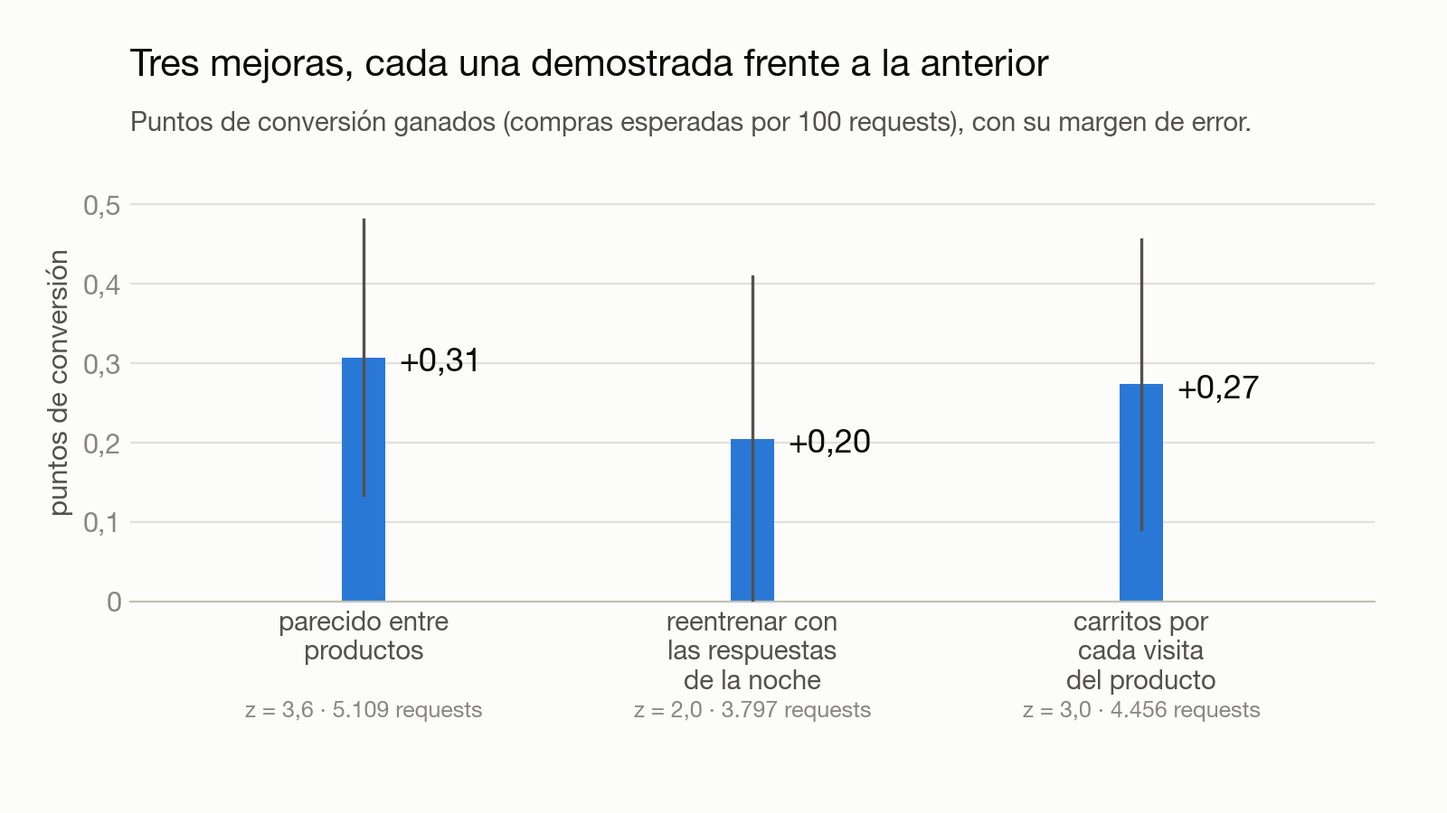
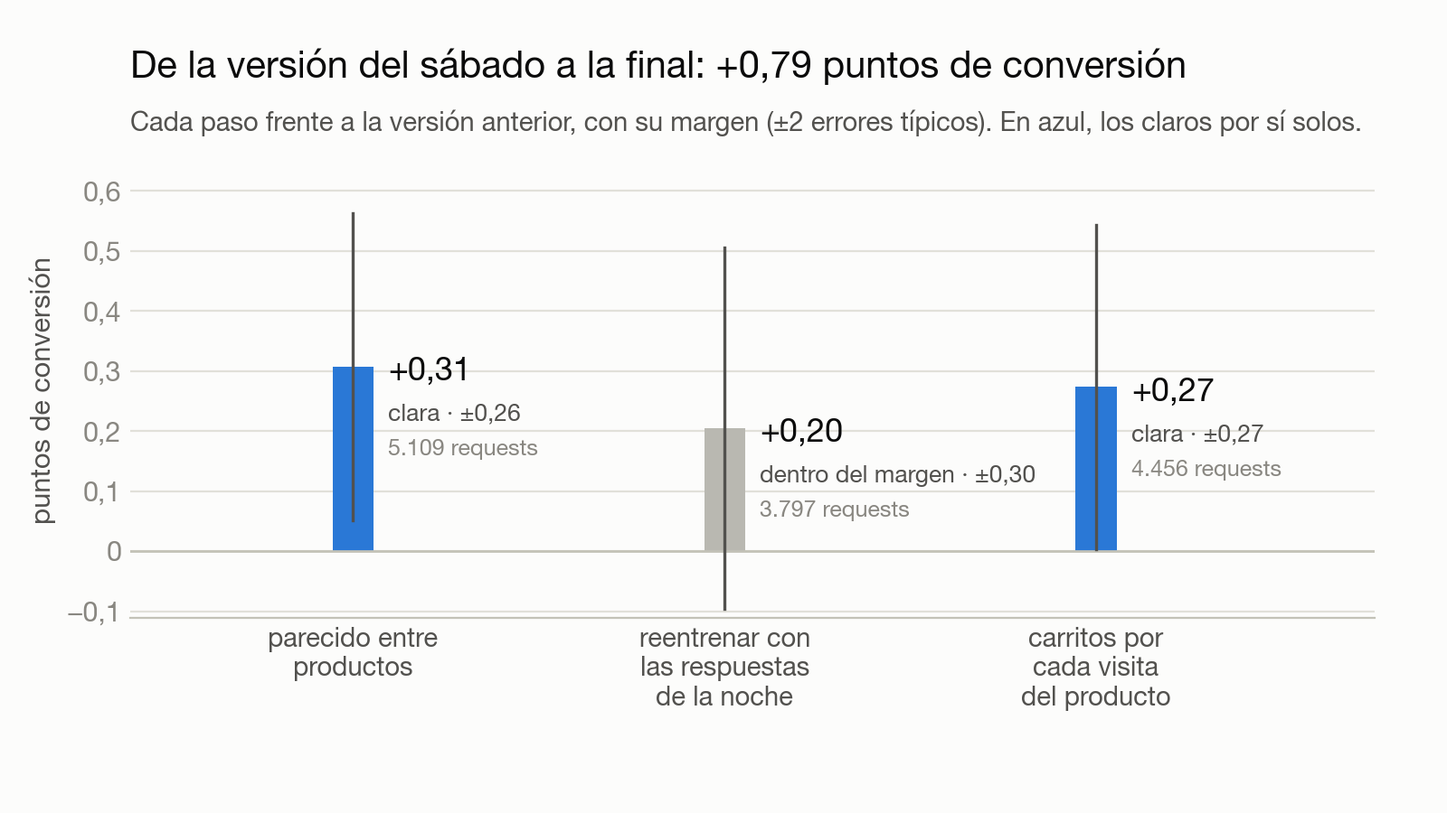
Presentación: márgenes de error corregidos y figura del historial de cada comprador
- Las figuras usan el ruido medido (5,9 puntos por request): la cadena v8 → v24 suma +0,79 ± 0,48 puntos, con dos
  pasos claros por sí solos (azul) y uno dentro del margen (gris). La curva de productos nuevos pasa a decir lo que
  dicen los datos: ningún nivel gana con claridad al elegido.
- Figura nueva 6_historial.png: tasa de compra según lo que el comprador hizo con el producto en los carruseles
  antiguos (lo compró: 2,56 % frente a 0,20 % si nunca se lo enseñaron).
- Guion: diapositiva 5 cuenta cómo medimos el ruido y nos corregimos; la 8, qué haríamos con más tiempo (columna
  propensity para evaluar sin gastar tráfico, modelo en dos pasos). El texto se adapta a la versión final elegida.

diff --git a/presentacion/presentacion.html b/presentacion/presentacion.html
@@ -10,12 +10,12 @@
 @media (max-width:820px){.slide{aspect-ratio:auto;padding:24px 16px;margin:12px}.body{flex-direction:column}.body img{max-width:100%}h1{font-size:25px}.body ul{font-size:17px}}
 @media print{body{background:#fff}.slide{border:0;margin:0;max-width:none;min-height:96vh}.say{display:none}}
 </style></head><body>
-<section class='slide'><div class='n'>1 / 8</div><h1>team_23 · Un recomendador que aprende mientras atiende</h1><div class='body'><ul><li>Capturamos el 49 % de la mejora máxima posible (0 = los más vendidos, 100 = la lista perfecta).</li><li>Respondemos en 1 segundo de mediana, con el límite en 3.</li><li>Tres mejoras seguidas demostradas en vivo durante la noche: +0,79 puntos de conversión en total.</li></ul></div><div class='say'><b>Qué decir:</b> Somos cuatro y empezamos de cero el sábado por la mañana. Nuestra idea ha sido sencilla: un modelo que se pueda explicar, y que cada cambio se gane su sitio con datos en vivo.</div></section>
+<section class='slide'><div class='n'>1 / 8</div><h1>team_23 · Un recomendador que aprende mientras atiende</h1><div class='body'><ul><li>Capturamos el 49 % de la mejora máxima posible (0 = los más vendidos, 100 = la lista perfecta).</li><li>Respondemos en 1 segundo de mediana, con el límite en 3.</li><li>De la versión del sábado a la final: +0,79 puntos de conversión (±0,48), medidos en vivo.</li></ul></div><div class='say'><b>Qué decir:</b> Somos cuatro y empezamos de cero el sábado por la mañana. Nuestra idea ha sido sencilla: un modelo que se pueda explicar, y que cada cambio se gane su sitio con datos en vivo y con su margen de error.</div></section>
 <section class='slide'><div class='n'>2 / 8</div><h1>Cómo funciona: una request, 10 productos, 1 milisegundo de cálculo</h1><div class='body fig'><ul><li>Memoria de cada comprador: visto, carrito y comprado (60 días + hoy).</li><li>En cada request se puntúan los ~5.400 productos: señales × pesos.</li><li>Lectura, cálculo y envío en hilos separados: de 1,4 a 1,0 s de mediana.</li><li>Cada despliegue pasa una prueba con requests reales y tiene vuelta atrás.</li></ul><img src='5_latencia.png' alt='Cómo funciona: una request, 10 productos, 1 milisegundo de cálculo'></div><div class='say'><b>Qué decir:</b> La fiabilidad va primero: si no respondes a tiempo, da igual lo bueno que sea el modelo. Lo ya comprado y lo agotado se quitan de la lista. Tuvimos tres paradas el sábado por desplegar a mano; de ahí salió el despliegue con comprobación previa y vuelta atrás con un comando.</div></section>
-<section class='slide'><div class='n'>3 / 8</div><h1>El modelo, en cuatro ideas que se pueden leer</h1><div class='body'><ul><li>Lo que el comprador ya hizo: lo que tiene en el carrito sube; lo que ya compró, fuera (en vivo no se recompra).</li><li>Lo que acaba de ver en esta sesión.</li><li>Parecido entre productos: "quien metió X en el carrito o lo compró, también Y".</li><li>Lo bueno que es el producto: carritos por cada visita, no ventas totales.</li><li>Pesos distintos para compradores nuevos y conocidos: a los nuevos les mueve lo que convence a todos; a los conocidos, su carrito y su historial.</li></ul></div><div class='say'><b>Qué decir:</b> Es una suma de señales con pesos. Lo elegimos así a propósito: se entrena en segundos, responde en un milisegundo y cuando algo va mal podemos mirar qué peso lo causa.</div></section>
-<section class='slide'><div class='n'>4 / 8</div><h1>Aprender del stream: reentrenar con nuestras propias respuestas</h1><div class='body fig'><ul><li>Cada pocas horas se reajustan los pesos con lo que de verdad se compró.</li><li>Cada versión nueva entra con parte del tráfico y compite con la campeona.</li><li>Tres pasos seguidos: +0,31, +0,20 y +0,27 puntos de conversión.</li></ul><img src='2_mejoras.png' alt='Aprender del stream: reentrenar con nuestras propias respuestas'></div><div class='say'><b>Qué decir:</b> El histórico no se comporta igual que el vivo, así que sus pesos solo son el punto de partida. Para reentrenar reproducimos el día en orden, cada request con lo que se sabía en ese momento, para no hacer trampa. Lo que más nos ha dado es aprender de las listas que nosotros mismos enseñamos.</div></section>
-<section class='slide'><div class='n'>5 / 8</div><h1>Decidir con datos: lo que parecía buena idea y no lo era</h1><div class='body fig'><ul><li>Dos versiones idénticas pueden diferir 0,3 puntos con 600 requests.</li><li>Regla: no decidir con menos de 3.000 requests ni de 2 errores típicos.</li><li>Productos nuevos: ni sin empujón ni con más. Cinco niveles a la vez.</li><li>Más de 25 versiones en un día; cada retirada, con su número.</li></ul><img src='3_productos_nuevos.png' alt='Decidir con datos: lo que parecía buena idea y no lo era'></div><div class='say'><b>Qué decir:</b> Nos equivocamos varias veces, y lo interesante es cómo lo supimos: por la conversión esperada del leaderboard por versión, que tiene mucho menos ruido que contar compras. Perdieron en vivo ideas que ganaban en pruebas con datos guardados: poner todos los carritos primero, empujar las rebajas, un modelo de árboles. Llegamos a quitar el empujón a los productos nuevos por un análisis con pocas compras; la prueba en vivo dijo lo contrario en media hora.</div></section>
-<section class='slide'><div class='n'>6 / 8</div><h1>Lo que aprendimos de esta tienda</h1><div class='body fig'><ul><li>Los 50 productos más comprados se llevan el 64 % de las compras del carrusel; los 200, el 93 %.</li><li>No son los que más se venden, sino los que más convencen: carritos por visita.</li><li>Con compradores conocidos, 7 de cada 10 compras ya estaban en su carrito.</li></ul><img src='4_estrellas.png' alt='Lo que aprendimos de esta tienda'></div><div class='say'><b>Qué decir:</b> Esto cambió el modelo: dejamos de medir popularidad por volumen y pasamos a medirla por lo que convence un producto. Fue la última gran mejora de la noche. También comprobamos lo que no hay: ni modas por horas ni efecto de las rebajas en el carrusel.</div></section>
-<section class='slide'><div class='n'>7 / 8</div><h1>Cómo usamos RawTree</h1><div class='body'><ul><li>Requests: dos lectores en paralelo cada 0,2 s; respuestas por lotes en hilos aparte.</li><li>Estado en SQL, sin ETL: stock cada 2 s; catálogo, popularidad y tasas por producto cada minuto (una fila por producto).</li><li>Memoria de compradores y tabla de parecidos entre productos con agregaciones y un self-join sobre 12 millones de eventos.</li><li>Entrenamiento: feedback unido a requests y a eventos, reproducido en orden temporal.</li><li>Medida: la conversión esperada por versión del leaderboard, por tramos entre despliegues.</li></ul></div><div class='say'><b>Qué decir:</b> Todo el cálculo pesado lo hace RawTree con SQL; en el portátil solo queda multiplicar señales por pesos. Aprendimos a no lanzar descargas grandes mientras producción corre.</div></section>
-<section class='slide'><div class='n'>8 / 8</div><h1>Resultado, y lo que haríamos distinto</h1><div class='body fig'><ul><li>De 38 % de la mejora posible a las 18:00 a 49 % de madrugada.</li><li>Lo que salió mal: paradas por desplegar a mano y cortes de red. De ahí salieron el despliegue con vuelta atrás y la alarma de conexión.</li><li>Con más tiempo: compradores conocidos, y precio según dispositivo y región.</li><li>Versión final: v24-rate.</li></ul><img src='1_progreso.png' alt='Resultado, y lo que haríamos distinto'></div><div class='say'><b>Qué decir:</b> Cada décima que tenemos está medida frente a la versión anterior y sabemos de dónde viene. Eso es lo que nos llevamos.</div></section>
+<section class='slide'><div class='n'>3 / 8</div><h1>El modelo, en ideas que se pueden leer</h1><div class='body'><ul><li>Lo que el comprador ya hizo: su carrito sube; lo que ya compró, fuera (en vivo no se recompra).</li><li>Lo que acaba de ver en esta sesión.</li><li>Parecido entre productos: "quien metió X en el carrito o lo compró, también Y".</li><li>Lo bueno que es el producto: carritos por cada visita, no ventas totales.</li><li>Pesos distintos para compradores nuevos y conocidos.</li></ul></div><div class='say'><b>Qué decir:</b> Es una suma de señales con pesos. Lo elegimos así a propósito: se entrena en segundos, responde en un milisegundo y cuando algo va mal podemos mirar qué peso lo causa. A los compradores nuevos les mueve lo que convence a todos; a los conocidos, su carrito y su historial.</div></section>
+<section class='slide'><div class='n'>4 / 8</div><h1>Aprender del stream: reentrenar con nuestras propias respuestas</h1><div class='body fig'><ul><li>Cada minuto: eventos nuevos a la memoria de cada comprador, tasas de cada producto y productos nuevos.</li><li>Cada pocas horas: los pesos se reajustan con lo que de verdad se compró en nuestras listas.</li><li>Cada versión nueva entra con parte del tráfico y compite con la campeona.</li><li>Tres pasos, +0,79 puntos en total (±0,48). Dos son claros por sí solos; el otro queda dentro del margen.</li></ul><img src='2_mejoras.png' alt='Aprender del stream: reentrenar con nuestras propias respuestas'></div><div class='say'><b>Qué decir:</b> El histórico no se comporta igual que el vivo, así que sus pesos solo son el punto de partida. Para reentrenar reproducimos el día en orden, cada request con lo que se sabía en ese momento, para no hacer trampa. Lo que más nos ha dado es aprender de las listas que nosotros mismos enseñamos.</div></section>
+<section class='slide'><div class='n'>5 / 8</div><h1>Decidir con datos: antes de medir, medir la regla</h1><div class='body fig'><ul><li>Comparamos versiones con la conversión esperada del leaderboard: mucho menos ruido que contar compras.</li><li>Medimos ese ruido: 5,9 puntos por request. Dos versiones idénticas difieren 0,3 puntos con 600 requests.</li><li>Regla: promocionar solo con 2 errores típicos y 3.000 requests.</li><li>Nos corregimos: empezamos suponiendo un ruido de 4 y varias "victorias" no lo eran.</li></ul><img src='3_productos_nuevos.png' alt='Decidir con datos: antes de medir, medir la regla'></div><div class='say'><b>Qué decir:</b> A las cinco de la mañana medimos bien el ruido, con 210 comparaciones entre versiones que corrieron a la vez, y salió un 50 % mayor del que usábamos. Releímos la noche entera: las mejoras grandes siguen en pie y otras decisiones, como cuántos productos nuevos enseñar, quedaron en "no se puede saber con estos datos". Preferimos contarlo así. También perdieron en vivo ideas que ganaban con datos guardados: poner todos los carritos primero, empujar las rebajas, un modelo de árboles.</div></section>
+<section class='slide'><div class='n'>6 / 8</div><h1>Lo que aprendimos de esta tienda</h1><div class='body fig'><ul><li>Los 50 productos más comprados se llevan el 65 % de las compras del carrusel; los 200, el 93 %.</li><li>No son los que más se venden, sino los que más convencen: carritos por visita.</li><li>Con compradores conocidos, 7 de cada 10 compras ya estaban en su carrito.</li><li>Toda compra pasa por un clic, y lo comprado en el carrusel no se vuelve a comprar.</li></ul><img src='4_estrellas.png' alt='Lo que aprendimos de esta tienda'></div><div class='say'><b>Qué decir:</b> Esto cambió el modelo: dejamos de medir popularidad por volumen y pasamos a medirla por lo que convence un producto. También comprobamos lo que no hay: ni modas por horas, ni efecto de las rebajas, ni un nivel de precio propio de cada comprador.</div></section>
+<section class='slide'><div class='n'>7 / 8</div><h1>Cómo usamos RawTree</h1><div class='body'><ul><li>Requests: dos lectores en paralelo cada 0,2 s; respuestas por lotes en hilos aparte.</li><li>Estado en SQL, sin ETL: stock cada 2 s; catálogo, popularidad y tasas por producto cada minuto.</li><li>Memoria de compradores y parecido entre productos: agregaciones y un self-join sobre 12 millones de eventos.</li><li>Historial de los 2 millones de carruseles antiguos: 10 millones de parejas comprador-producto agregadas en SQL.</li><li>Entrenar y medir: feedback unido a requests y eventos en orden temporal; conversión esperada por versión.</li></ul></div><div class='say'><b>Qué decir:</b> Todo el cálculo pesado lo hace RawTree con SQL; en el portátil solo queda multiplicar señales por pesos. Aprendimos a no lanzar descargas grandes mientras producción corre: las bajamos en trozos pequeños, de uno en uno.</div></section>
+<section class='slide'><div class='n'>8 / 8</div><h1>Resultado, y lo que haríamos distinto</h1><div class='body fig'><ul><li>De 38 % de la mejora posible a las 18:00 a 49 % de madrugada.</li><li>Lo que salió mal: paradas por desplegar a mano y cortes de red. De ahí, el despliegue con vuelta atrás y la alarma de conexión.</li><li>Con más tiempo: evaluar versiones sin gastar tráfico con la columna propensity del histórico, y un modelo en dos pasos (clic y compra).</li><li>Versión final: v24-rate.</li></ul><img src='1_progreso.png' alt='Resultado, y lo que haríamos distinto'></div><div class='say'><b>Qué decir:</b> Cada décima que tenemos está medida frente a la versión anterior, con su margen, y sabemos de dónde viene. Los equipos de cabeza nos sacan ventaja sobre todo con compradores conocidos; ahí es donde seguiríamos buscando.</div></section>
 </body></html>

diff --git a/presentacion/make_guion.py b/presentacion/make_guion.py
@@ -17,14 +17,26 @@ g = d["mejoras"]
 prog = d["progreso"]["nosotros"]
 best_hour = max(prog[:-1])
 lat = d["latencia_s"]
-total_gain = sum(x["ganancia"] for x in g)
+tot = d.get("mejora_total", {"ganancia": sum(x["ganancia"] for x in g), "error": 0.0})
+total_gain = tot["ganancia"]
+n_clear = sum(bool(x.get("clara")) for x in g)
+ruido = d.get("ruido", {"total": 5.9})
+hist = {x["grupo"]: x["tasa_pct"] for x in d.get("historial", [])}
+h_buy, h_never = hist.get("lo compró desde un carrusel antiguo"), hist.get("nunca se lo habían enseñado")
+uses_history = champ.startswith("v33")
+NUM = {1: "uno", 2: "dos", 3: "tres", 4: "cuatro", 5: "cinco"}
+steps_txt = (f"{NUM.get(len(g), len(g)).capitalize()} pasos, +{es(total_gain)} puntos en total (±{es(2 * tot['error'])}). "
+             + (f"{NUM.get(n_clear, n_clear).capitalize()} son claros por sí solos; " + ("el otro queda" if len(g) - n_clear == 1 else "los otros quedan") + " dentro del margen."
+                if n_clear < len(g) else "Todos claros por sí solos."))
+history_bullet = (f"Lo que cada comprador hizo en el sistema antiguo: si compró un producto desde un carrusel, lo compra {es(h_buy / h_never, 0)} veces más que uno que nunca vio."
+                  if h_buy and h_never else "Lo que cada comprador hizo en los carruseles del sistema antiguo.")
 
 slides = [
  {"title": "team_23 · Un recomendador que aprende mientras atiende",
   "bullets": [f"Capturamos el {es(best_hour, 0)} % de la mejora máxima posible (0 = los más vendidos, 100 = la lista perfecta).",
               "Respondemos en 1 segundo de mediana, con el límite en 3.",
-              f"Tres mejoras seguidas demostradas en vivo durante la noche: +{es(total_gain)} puntos de conversión en total."],
-  "say": "Somos cuatro y empezamos de cero el sábado por la mañana. Nuestra idea ha sido sencilla: un modelo que se pueda explicar, y que cada cambio se gane su sitio con datos en vivo."},
+              f"De la versión del sábado a la final: +{es(total_gain)} puntos de conversión (±{es(2 * tot['error'])}), medidos en vivo."],
+  "say": "Somos cuatro y empezamos de cero el sábado por la mañana. Nuestra idea ha sido sencilla: un modelo que se pueda explicar, y que cada cambio se gane su sitio con datos en vivo y con su margen de error."},
  {"title": "Cómo funciona: una request, 10 productos, 1 milisegundo de cálculo",
   "figure": "5_latencia.png",
   "bullets": ["Memoria de cada comprador: visto, carrito y comprado (60 días + hoy).",
@@ -32,46 +44,51 @@ slides = [
               f"Lectura, cálculo y envío en hilos separados: de {es(lat['antes']['p50'], 1)} a {es(lat['despues']['p50'], 1)} s de mediana.",
               "Cada despliegue pasa una prueba con requests reales y tiene vuelta atrás."],
   "say": "La fiabilidad va primero: si no respondes a tiempo, da igual lo bueno que sea el modelo. Lo ya comprado y lo agotado se quitan de la lista. Tuvimos tres paradas el sábado por desplegar a mano; de ahí salió el despliegue con comprobación previa y vuelta atrás con un comando."},
- {"title": "El modelo, en cuatro ideas que se pueden leer",
-  "bullets": ["Lo que el comprador ya hizo: lo que tiene en el carrito sube; lo que ya compró, fuera (en vivo no se recompra).",
+ {"title": "El modelo, en ideas que se pueden leer",
+  **({"figure": "6_historial.png"} if uses_history and (OUT / "6_historial.png").exists() else {}),
+  "bullets": ["Lo que el comprador ya hizo: su carrito sube; lo que ya compró, fuera (en vivo no se recompra).",
               "Lo que acaba de ver en esta sesión.",
               "Parecido entre productos: \"quien metió X en el carrito o lo compró, también Y\".",
-              "Lo bueno que es el producto: carritos por cada visita, no ventas totales.",
-              "Pesos distintos para compradores nuevos y conocidos: a los nuevos les mueve lo que convence a todos; a los conocidos, su carrito y su historial."],
-  "say": "Es una suma de señales con pesos. Lo elegimos así a propósito: se entrena en segundos, responde en un milisegundo y cuando algo va mal podemos mirar qué peso lo causa."},
+              "Lo bueno que es el producto: carritos por cada visita, no ventas totales."]
+             + ([history_bullet] if uses_history else [])
+             + ["Pesos distintos para compradores nuevos y conocidos."],
+  "say": "Es una suma de señales con pesos. Lo elegimos así a propósito: se entrena en segundos, responde en un milisegundo y cuando algo va mal podemos mirar qué peso lo causa. A los compradores nuevos les mueve lo que convence a todos; a los conocidos, su carrito y su historial."
+         + (" La última señal salió de una tabla que casi nadie mira: los carruseles del sistema antiguo guardan qué enseñó, qué se clicó y qué se compró, comprador a comprador." if uses_history else "")},
  {"title": "Aprender del stream: reentrenar con nuestras propias respuestas",
   "figure": "2_mejoras.png",
-  "bullets": ["Cada pocas horas se reajustan los pesos con lo que de verdad se compró.",
+  "bullets": ["Cada minuto: eventos nuevos a la memoria de cada comprador, tasas de cada producto y productos nuevos.",
+              "Cada pocas horas: los pesos se reajustan con lo que de verdad se compró en nuestras listas.",
               "Cada versión nueva entra con parte del tráfico y compite con la campeona.",
-              f"Tres pasos seguidos: +{es(g[0]['ganancia'])}, +{es(g[1]['ganancia'])} y +{es(g[2]['ganancia'])} puntos de conversión."],
+              steps_txt],
   "say": "El histórico no se comporta igual que el vivo, así que sus pesos solo son el punto de partida. Para reentrenar reproducimos el día en orden, cada request con lo que se sabía en ese momento, para no hacer trampa. Lo que más nos ha dado es aprender de las listas que nosotros mismos enseñamos."},
- {"title": "Decidir con datos: lo que parecía buena idea y no lo era",
+ {"title": "Decidir con datos: antes de medir, medir la regla",
   "figure": "3_productos_nuevos.png",
-  "bullets": ["Dos versiones idénticas pueden diferir 0,3 puntos con 600 requests.",
-              "Regla: no decidir con menos de 3.000 requests ni de 2 errores típicos.",
-              "Productos nuevos: ni sin empujón ni con más. Cinco niveles a la vez.",
-              "Más de 25 versiones en un día; cada retirada, con su número."],
-  "say": "Nos equivocamos varias veces, y lo interesante es cómo lo supimos: por la conversión esperada del leaderboard por versión, que tiene mucho menos ruido que contar compras. Perdieron en vivo ideas que ganaban en pruebas con datos guardados: poner todos los carritos primero, empujar las rebajas, un modelo de árboles. Llegamos a quitar el empujón a los productos nuevos por un análisis con pocas compras; la prueba en vivo dijo lo contrario en media hora."},
+  "bullets": ["Comparamos versiones con la conversión esperada del leaderboard: mucho menos ruido que contar compras.",
+              f"Medimos ese ruido: {es(ruido['total'], 1)} puntos por request. Dos versiones idénticas difieren 0,3 puntos con 600 requests.",
+              "Regla: promocionar solo con 2 errores típicos y 3.000 requests.",
+              "Nos corregimos: empezamos suponiendo un ruido de 4 y varias \"victorias\" no lo eran."],
+  "say": "A las cinco de la mañana medimos bien el ruido, con 210 comparaciones entre versiones que corrieron a la vez, y salió un 50 % mayor del que usábamos. Releímos la noche entera: las mejoras grandes siguen en pie y otras decisiones, como cuántos productos nuevos enseñar, quedaron en \"no se puede saber con estos datos\". Preferimos contarlo así. También perdieron en vivo ideas que ganaban con datos guardados: poner todos los carritos primero, empujar las rebajas, un modelo de árboles."},
  {"title": "Lo que aprendimos de esta tienda",
   "figure": "4_estrellas.png",
   "bullets": [f"Los 50 productos más comprados se llevan el {es(d['estrellas']['top50'], 0)} % de las compras del carrusel; los 200, el {es(d['estrellas']['top200'], 0)} %.",
               "No son los que más se venden, sino los que más convencen: carritos por visita.",
-              "Con compradores conocidos, 7 de cada 10 compras ya estaban en su carrito."],
-  "say": "Esto cambió el modelo: dejamos de medir popularidad por volumen y pasamos a medirla por lo que convence un producto. Fue la última gran mejora de la noche. También comprobamos lo que no hay: ni modas por horas ni efecto de las rebajas en el carrusel."},
+              "Con compradores conocidos, 7 de cada 10 compras ya estaban en su carrito.",
+              "Toda compra pasa por un clic, y lo comprado en el carrusel no se vuelve a comprar."],
+  "say": "Esto cambió el modelo: dejamos de medir popularidad por volumen y pasamos a medirla por lo que convence un producto. También comprobamos lo que no hay: ni modas por horas, ni efecto de las rebajas, ni un nivel de precio propio de cada comprador."},
  {"title": "Cómo usamos RawTree",
   "bullets": ["Requests: dos lectores en paralelo cada 0,2 s; respuestas por lotes en hilos aparte.",
-              "Estado en SQL, sin ETL: stock cada 2 s; catálogo, popularidad y tasas por producto cada minuto (una fila por producto).",
-              "Memoria de compradores y tabla de parecidos entre productos con agregaciones y un self-join sobre 12 millones de eventos.",
-              "Entrenamiento: feedback unido a requests y a eventos, reproducido en orden temporal.",
-              "Medida: la conversión esperada por versión del leaderboard, por tramos entre despliegues."],
-  "say": "Todo el cálculo pesado lo hace RawTree con SQL; en el portátil solo queda multiplicar señales por pesos. Aprendimos a no lanzar descargas grandes mientras producción corre."},
+              "Estado en SQL, sin ETL: stock cada 2 s; catálogo, popularidad y tasas por producto cada minuto.",
+              "Memoria de compradores y parecido entre productos: agregaciones y un self-join sobre 12 millones de eventos.",
+              "Historial de los 2 millones de carruseles antiguos: 10 millones de parejas comprador-producto agregadas en SQL.",
+              "Entrenar y medir: feedback unido a requests y eventos en orden temporal; conversión esperada por versión."],
+  "say": "Todo el cálculo pesado lo hace RawTree con SQL; en el portátil solo queda multiplicar señales por pesos. Aprendimos a no lanzar descargas grandes mientras producción corre: las bajamos en trozos pequeños, de uno en uno."},
  {"title": "Resultado, y lo que haríamos distinto",
   "figure": "1_progreso.png",
   "bullets": [f"De {es(prog[7], 0)} % de la mejora posible a las 18:00 a {es(best_hour, 0)} % de madrugada.",
-              "Lo que salió mal: paradas por desplegar a mano y cortes de red. De ahí salieron el despliegue con vuelta atrás y la alarma de conexión.",
-              "Con más tiempo: compradores conocidos, y precio según dispositivo y región.",
+              "Lo que salió mal: paradas por desplegar a mano y cortes de red. De ahí, el despliegue con vuelta atrás y la alarma de conexión.",
+              "Con más tiempo: evaluar versiones sin gastar tráfico con la columna propensity del histórico, y un modelo en dos pasos (clic y compra).",
               f"Versión final: {champ}."],
-  "say": "Cada décima que tenemos está medida frente a la versión anterior y sabemos de dónde viene. Eso es lo que nos llevamos."},
+  "say": "Cada décima que tenemos está medida frente a la versión anterior, con su margen, y sabemos de dónde viene. Los equipos de cabeza nos sacan ventaja sobre todo con compradores conocidos; ahí es donde seguiríamos buscando."},
 ]
 
 md = ["# Guion de la presentación al jurado (team_23)", "",

diff --git a/presentacion/make_figures.py b/presentacion/make_figures.py
@@ -85,28 +85,38 @@ datos["progreso"] = {"horas": [h.strftime("%H:%M") for h in hours], "nosotros": 
 # ------------------------------------------------------------------ 2. cadena de mejoras
 steps = [("v8-new-products", "v14-cf-split", "parecido entre\nproductos"), ("v14-cf-split", "v23-pop-log", "reentrenar con\nlas respuestas\nde la noche"),
          ("v23-pop-log", "v24-rate", "carritos por\ncada visita\ndel producto")]
+if state["champion"].startswith("v33"):      # el último paso solo se enseña si es la versión con la que se juega la final
+    steps.append(("v24-rate", "v33-user-history", "historial de cada\ncomprador en el\nsistema antiguo"))
 vals = [pair(b, a) for a, b, _ in steps]
-f, ax = fig("Tres mejoras, cada una demostrada frente a la anterior",
-            "Puntos de conversión ganados (compras esperadas por 100 requests), con su margen de error.")
+total, total_se = sum(v[0] for v in vals), sum(v[1] ** 2 for v in vals) ** 0.5
+clear = [v[0] - 2 * v[1] > 0 for v in vals]
+f, ax = fig(f"De la versión del sábado a la final: +{es(total)} puntos de conversión",
+            "Cada paso frente a la versión anterior, con su margen (±2 errores típicos). En azul, los claros por sí solos.")
 xs = np.arange(len(steps))
-ax.bar(xs, [v[0] for v in vals], width=0.11, color=BLUE, zorder=2)
+ax.bar(xs, [v[0] for v in vals], width=0.11, color=[BLUE if c else GRAY for c in clear], zorder=2)
 ax.yaxis.set_major_formatter(COMMA)
 for i, (dv, se, n) in enumerate(vals):
     ax.plot([i, i], [dv - 2 * se, dv + 2 * se], color=INK2, lw=1.2, zorder=3)
-    ax.annotate(f"+{es(dv)}", (i, dv), xytext=(14, -2), textcoords="offset points", fontsize=13, fontweight="bold", color=INK, va="center")
-    ax.annotate(f"z = {es(dv / se, 1)} · " + f"{n:,}".replace(",", ".") + " requests", (i, 0), xytext=(0, -46), textcoords="offset points", fontsize=9, color=MUTED, ha="center")
+    ax.annotate(f"+{es(dv)}" if dv >= 0 else es(dv).replace("-", "−"), (i, dv), xytext=(14, -2), textcoords="offset points", fontsize=13, fontweight="bold", color=INK, va="center")
+    ax.annotate(("clara" if clear[i] else "dentro del margen") + f" · ±{es(2 * se)}", (i, dv), xytext=(14, -19), textcoords="offset points", fontsize=9.5, color=INK2, va="center")
+    ax.annotate(f"{n:,}".replace(",", ".") + " requests", (i, dv), xytext=(14, -33), textcoords="offset points", fontsize=9, color=MUTED, va="center")
 ax.axhline(0, color=AXIS, lw=1)
 ax.set_xticks(xs); ax.set_xticklabels([s[2] for s in steps], fontsize=10.5, color=INK2)
-ax.set_xlim(-0.6, len(steps) - 0.4); ax.set_ylim(0, max(v[0] + 2 * v[1] for v in vals) * 1.15); ax.set_ylabel("puntos de conversión")
-f.subplots_adjust(bottom=0.26)
+lo = min(0.0, min(v[0] - 2 * v[1] for v in vals))
+ax.set_xlim(-0.6, len(steps) - 0.4); ax.set_ylim(lo * 1.15, max(v[0] + 2 * v[1] for v in vals) * 1.15); ax.set_ylabel("puntos de conversión")
+ax.set_xlim(-0.6, len(steps) - 0.25)
+f.subplots_adjust(bottom=0.24)
 f.savefig(OUT / "2_mejoras.png"); plt.close(f)
-datos["mejoras"] = [{"de": a, "a": b, "ganancia": round(v[0], 3), "error": round(v[1], 3), "requests": v[2]} for (a, b, _), v in zip(steps, vals)]
+datos["mejoras"] = [{"de": a, "a": b, "ganancia": round(v[0], 3), "error": round(v[1], 3), "requests": v[2], "clara": bool(c)} for (a, b, _), v, c in zip(steps, vals, clear)]
+datos["mejora_total"] = {"ganancia": round(total, 3), "error": round(total_se, 3), "z": round(total / total_se, 1)}
+datos["ruido"] = {"total": monitor.NOISE_SD, "conocidos": monitor.NOISE_KNOWN, "cold": monitor.NOISE_COLD}
 
 # ------------------------------------------------------------------ 3. curva de productos nuevos
 curve = [("v25-rate-nonew", 0.6), ("v24-rate", 6.5), ("v26-rate-new2x", 13), ("v27-rate-new3x", 21), ("v28-rate-learned", 32)]
 cv = [(0.0, 0.0, 0) if v == "v24-rate" else pair(v, "v24-rate") for v, _ in curve]
-f, ax = fig("¿Cuántos productos nuevos enseñar? Lo decidió una prueba, no la intuición",
-            "Mismo modelo, cinco niveles de empuje a los productos nuevos. Diferencia frente al nivel elegido.")
+worse = [n for (n, _), v in zip(curve, cv) if n != "v24-rate" and v[0] + 2 * v[1] < 0]
+f, ax = fig("Productos nuevos: cinco niveles a la vez" + (f"; {len(worse)} claramente peor" if worse else ", ninguno gana al elegido"),
+            "Mismo modelo, cinco niveles de empuje. Diferencia frente al elegido (±2 errores típicos).")
 xs = [e for _, e in curve]
 ax.axhline(0, color=AXIS, lw=1)
 for xv, (dv, se, n), (name, _) in zip(xs, cv, curve):
@@ -122,6 +132,7 @@ ax.set_xlim(-3, 37); ax.set_ylim(min(v[0] - 2 * v[1] for v in cv) - 0.08, 0.25)
 ax.yaxis.set_major_formatter(COMMA)
 f.savefig(OUT / "3_productos_nuevos.png"); plt.close(f)
 datos["productos_nuevos"] = [{"version": n, "huecos_pct": e, "dif": round(v[0], 3), "error": round(v[1], 3), "requests": v[2]} for (n, e), v in zip(curve, cv)]
+datos["productos_nuevos_claros"] = worse
 
 # ------------------------------------------------------------------ 4. concentración de compras
 try:
@@ -169,6 +180,30 @@ ax.legend(handles=[plt.Line2D([], [], marker="o", ls="", color=BLUE_LIGHT, marke
           loc="lower center", bbox_to_anchor=(0.45, 1.0), ncol=2, frameon=False, fontsize=10)
 f.savefig(OUT / "5_latencia.png"); plt.close(f)
 datos["latencia_s"] = {"antes": {"p50": round(lat[False][0], 2), "p99": round(lat[False][1], 2)}, "despues": {"p50": round(lat[True][0], 2), "p99": round(lat[True][1], 2)}}
+
+# ------------------------------------------------------------------ 6. historial en los carruseles del sistema antiguo
+try:
+    m = np.load(OUT.parent / "cache" / "live_matrix.npz")
+    F = {n: i for i, n in enumerate(m["features"].tolist())}
+    X, top3, kn, by = m["X"], m["slot"] < 3, ~m["new"].astype(bool), m["buy"]
+    hb, hk, ha, hn = X[:, F["hc_buy"]] > 0, X[:, F["hc_click"]] > 0, X[:, F["hc_any"]] > 0, np.rint(np.expm1(X[:, F["hc_n"]]))
+    groups = [("nunca se lo habían enseñado", ~hb & ~hk & ~ha), ("enseñado 4 veces o más, sin tocarlo", ha & (hn >= 4)), ("enseñado 1 vez, sin tocarlo", ha & (hn == 1)),
+              ("lo clicó, sin comprarlo", hk), ("lo compró desde un carrusel antiguo", hb)]
+    rates = [(lab, 100 * by[kn & top3 & g].mean(), int(by[kn & top3 & g].sum()), int((kn & top3 & g).sum())) for lab, g in groups]
+    f, ax = fig("Lo que hizo el comprador en el sistema antiguo predice la compra",
+                "Compradores conocidos, puestos 1 a 3: compras por cada 100 veces que se enseña el producto.", size=(8, 4.2))
+    f.subplots_adjust(left=0.40, top=0.78, bottom=0.14)
+    ys = np.arange(len(rates))
+    ax.barh(ys, [r[1] for r in rates], height=0.5, color=[BLUE if "compró" in r[0] else GRAY for r in rates], zorder=2)
+    for y, (lab, rate, b_, n_) in zip(ys, rates):
+        ax.annotate(f"{es(rate)} %", (rate, y), xytext=(6, 0), textcoords="offset points", va="center", fontsize=11, color=INK, fontweight="bold" if "compró" in lab else "normal")
+    ax.set_yticks(ys); ax.set_yticklabels([r[0] for r in rates], fontsize=10.5, color=INK2)
+    ax.set_xlim(0, max(r[1] for r in rates) * 1.2); ax.xaxis.set_major_formatter(COMMA); ax.set_xlabel("% de compra por impresión")
+    ax.grid(axis="y", visible=False); ax.grid(axis="x", visible=True)
+    f.savefig(OUT / "6_historial.png"); plt.close(f)
+    datos["historial"] = [{"grupo": lab, "tasa_pct": round(rate, 3), "compras": b_, "impresiones": n_} for lab, rate, b_, n_ in rates]
+except Exception as e:
+    print("figura 6 no generada:", e)
 
 (OUT / "datos.json").write_text(json.dumps(datos, indent=1, ensure_ascii=False))
 print(json.dumps(datos, ensure_ascii=False)[:1500])

diff --git a/presentacion/guion.md b/presentacion/guion.md
@@ -6,9 +6,9 @@ _Generado con los números actuales. 8 diapositivas, unos 5 minutos. En **negrit
 
 - **Capturamos el 49 % de la mejora máxima posible (0 = los más vendidos, 100 = la lista perfecta).**
 - **Respondemos en 1 segundo de mediana, con el límite en 3.**
-- **Tres mejoras seguidas demostradas en vivo durante la noche: +0,79 puntos de conversión en total.**
+- **De la versión del sábado a la final: +0,79 puntos de conversión (±0,48), medidos en vivo.**
 
-_Somos cuatro y empezamos de cero el sábado por la mañana. Nuestra idea ha sido sencilla: un modelo que se pueda explicar, y que cada cambio se gane su sitio con datos en vivo._
+_Somos cuatro y empezamos de cero el sábado por la mañana. Nuestra idea ha sido sencilla: un modelo que se pueda explicar, y que cada cambio se gane su sitio con datos en vivo y con su margen de error._
 
 ## 2. Cómo funciona: una request, 10 productos, 1 milisegundo de cálculo
 
@@ -21,64 +21,66 @@ _Somos cuatro y empezamos de cero el sábado por la mañana. Nuestra idea ha sid
 
 _La fiabilidad va primero: si no respondes a tiempo, da igual lo bueno que sea el modelo. Lo ya comprado y lo agotado se quitan de la lista. Tuvimos tres paradas el sábado por desplegar a mano; de ahí salió el despliegue con comprobación previa y vuelta atrás con un comando._
 
-## 3. El modelo, en cuatro ideas que se pueden leer
+## 3. El modelo, en ideas que se pueden leer
 
-- **Lo que el comprador ya hizo: lo que tiene en el carrito sube; lo que ya compró, fuera (en vivo no se recompra).**
+- **Lo que el comprador ya hizo: su carrito sube; lo que ya compró, fuera (en vivo no se recompra).**
 - **Lo que acaba de ver en esta sesión.**
 - **Parecido entre productos: "quien metió X en el carrito o lo compró, también Y".**
 - **Lo bueno que es el producto: carritos por cada visita, no ventas totales.**
-- **Pesos distintos para compradores nuevos y conocidos: a los nuevos les mueve lo que convence a todos; a los conocidos, su carrito y su historial.**
+- **Pesos distintos para compradores nuevos y conocidos.**
 
-_Es una suma de señales con pesos. Lo elegimos así a propósito: se entrena en segundos, responde en un milisegundo y cuando algo va mal podemos mirar qué peso lo causa._
+_Es una suma de señales con pesos. Lo elegimos así a propósito: se entrena en segundos, responde en un milisegundo y cuando algo va mal podemos mirar qué peso lo causa. A los compradores nuevos les mueve lo que convence a todos; a los conocidos, su carrito y su historial._
 
 ## 4. Aprender del stream: reentrenar con nuestras propias respuestas
 
 ![](2_mejoras.png)
 
-- **Cada pocas horas se reajustan los pesos con lo que de verdad se compró.**
+- **Cada minuto: eventos nuevos a la memoria de cada comprador, tasas de cada producto y productos nuevos.**
+- **Cada pocas horas: los pesos se reajustan con lo que de verdad se compró en nuestras listas.**
 - **Cada versión nueva entra con parte del tráfico y compite con la campeona.**
-- **Tres pasos seguidos: +0,31, +0,20 y +0,27 puntos de conversión.**
+- **Tres pasos, +0,79 puntos en total (±0,48). Dos son claros por sí solos; el otro queda dentro del margen.**
 
 _El histórico no se comporta igual que el vivo, así que sus pesos solo son el punto de partida. Para reentrenar reproducimos el día en orden, cada request con lo que se sabía en ese momento, para no hacer trampa. Lo que más nos ha dado es aprender de las listas que nosotros mismos enseñamos._
 
-## 5. Decidir con datos: lo que parecía buena idea y no lo era
+## 5. Decidir con datos: antes de medir, medir la regla
 
 ![](3_productos_nuevos.png)
 
-- **Dos versiones idénticas pueden diferir 0,3 puntos con 600 requests.**
-- **Regla: no decidir con menos de 3.000 requests ni de 2 errores típicos.**
-- **Productos nuevos: ni sin empujón ni con más. Cinco niveles a la vez.**
-- **Más de 25 versiones en un día; cada retirada, con su número.**
+- **Comparamos versiones con la conversión esperada del leaderboard: mucho menos ruido que contar compras.**
+- **Medimos ese ruido: 5,9 puntos por request. Dos versiones idénticas difieren 0,3 puntos con 600 requests.**
+- **Regla: promocionar solo con 2 errores típicos y 3.000 requests.**
+- **Nos corregimos: empezamos suponiendo un ruido de 4 y varias "victorias" no lo eran.**
 
-_Nos equivocamos varias veces, y lo interesante es cómo lo supimos: por la conversión esperada del leaderboard por versión, que tiene mucho menos ruido que contar compras. Perdieron en vivo ideas que ganaban en pruebas con datos guardados: poner todos los carritos primero, empujar las rebajas, un modelo de árboles. Llegamos a quitar el empujón a los productos nuevos por un análisis con pocas compras; la prueba en vivo dijo lo contrario en media hora._
+_A las cinco de la mañana medimos bien el ruido, con 210 comparaciones entre versiones que corrieron a la vez, y salió un 50 % mayor del que usábamos. Releímos la noche entera: las mejoras grandes siguen en pie y otras decisiones, como cuántos productos nuevos enseñar, quedaron en "no se puede saber con estos datos". Preferimos contarlo así. También perdieron en vivo ideas que ganaban con datos guardados: poner todos los carritos primero, empujar las rebajas, un modelo de árboles._
 
 ## 6. Lo que aprendimos de esta tienda
 
 ![](4_estrellas.png)
 
-- **Los 50 productos más comprados se llevan el 64 % de las compras del carrusel; los 200, el 93 %.**
+- **Los 50 productos más comprados se llevan el 65 % de las compras del carrusel; los 200, el 93 %.**
 - **No son los que más se venden, sino los que más convencen: carritos por visita.**
 - **Con compradores conocidos, 7 de cada 10 compras ya estaban en su carrito.**
+- **Toda compra pasa por un clic, y lo comprado en el carrusel no se vuelve a comprar.**
 
-_Esto cambió el modelo: dejamos de medir popularidad por volumen y pasamos a medirla por lo que convence un producto. Fue la última gran mejora de la noche. También comprobamos lo que no hay: ni modas por horas ni efecto de las rebajas en el carrusel._
+_Esto cambió el modelo: dejamos de medir popularidad por volumen y pasamos a medirla por lo que convence un producto. También comprobamos lo que no hay: ni modas por horas, ni efecto de las rebajas, ni un nivel de precio propio de cada comprador._
 
 ## 7. Cómo usamos RawTree
 
 - **Requests: dos lectores en paralelo cada 0,2 s; respuestas por lotes en hilos aparte.**
-- **Estado en SQL, sin ETL: stock cada 2 s; catálogo, popularidad y tasas por producto cada minuto (una fila por producto).**
-- **Memoria de compradores y tabla de parecidos entre productos con agregaciones y un self-join sobre 12 millones de eventos.**
-- **Entrenamiento: feedback unido a requests y a eventos, reproducido en orden temporal.**
-- **Medida: la conversión esperada por versión del leaderboard, por tramos entre despliegues.**
+- **Estado en SQL, sin ETL: stock cada 2 s; catálogo, popularidad y tasas por producto cada minuto.**
+- **Memoria de compradores y parecido entre productos: agregaciones y un self-join sobre 12 millones de eventos.**
+- **Historial de los 2 millones de carruseles antiguos: 10 millones de parejas comprador-producto agregadas en SQL.**
+- **Entrenar y medir: feedback unido a requests y eventos en orden temporal; conversión esperada por versión.**
 
-_Todo el cálculo pesado lo hace RawTree con SQL; en el portátil solo queda multiplicar señales por pesos. Aprendimos a no lanzar descargas grandes mientras producción corre._
+_Todo el cálculo pesado lo hace RawTree con SQL; en el portátil solo queda multiplicar señales por pesos. Aprendimos a no lanzar descargas grandes mientras producción corre: las bajamos en trozos pequeños, de uno en uno._
 
 ## 8. Resultado, y lo que haríamos distinto
 
 ![](1_progreso.png)
 
 - **De 38 % de la mejora posible a las 18:00 a 49 % de madrugada.**
-- **Lo que salió mal: paradas por desplegar a mano y cortes de red. De ahí salieron el despliegue con vuelta atrás y la alarma de conexión.**
-- **Con más tiempo: compradores conocidos, y precio según dispositivo y región.**
+- **Lo que salió mal: paradas por desplegar a mano y cortes de red. De ahí, el despliegue con vuelta atrás y la alarma de conexión.**
+- **Con más tiempo: evaluar versiones sin gastar tráfico con la columna propensity del histórico, y un modelo en dos pasos (clic y compra).**
 - **Versión final: v24-rate.**
 
-_Cada décima que tenemos está medida frente a la versión anterior y sabemos de dónde viene. Eso es lo que nos llevamos._
+_Cada décima que tenemos está medida frente a la versión anterior, con su margen, y sabemos de dónde viene. Los equipos de cabeza nos sacan ventaja sobre todo con compradores conocidos; ahí es donde seguiríamos buscando._
